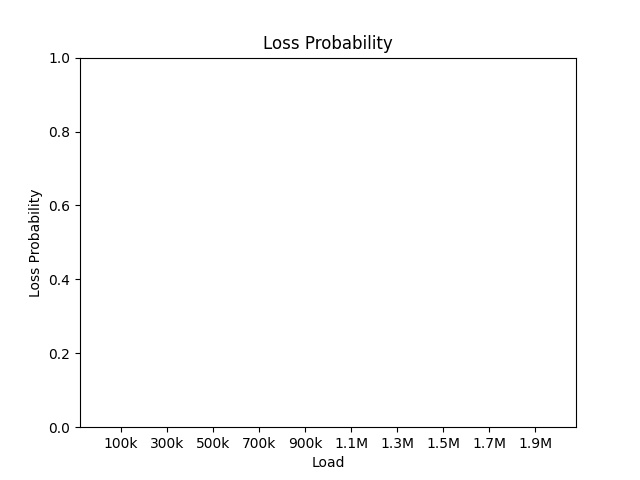
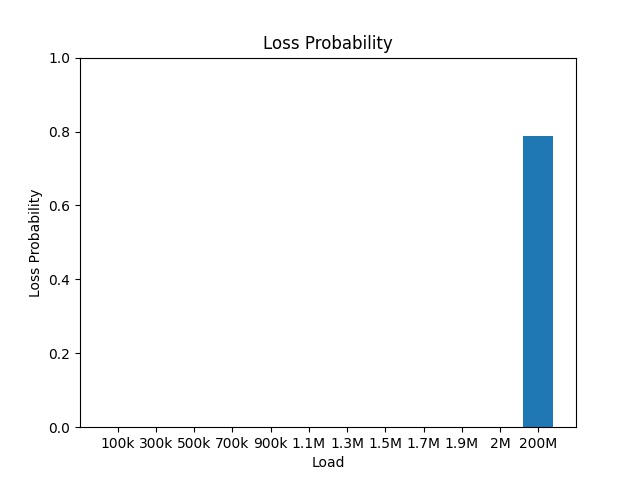
add new bar

Changed region(s): [[0.1562, 0.2812, 0.875, 0.9375]]

diff --git a/src/hw5/prob2.py b/src/hw5/prob2.py
@@ -262,8 +262,9 @@ if __name__ == "__main__":
 
 
     prob = []
-    load = ['100k', '300k', '500k', '700k', '900k', '1.1M', '1.3M', '1.5M', '1.7M', '1.9M']
-    for rate in range(100000, 2000000, 200000):
+    load = ['100k', '300k', '500k', '700k', '900k', '1.1M', '1.3M', '1.5M', '1.7M', '1.9M', '2M', '200M']
+    load_int = [100000, 300000, 500000, 700000, 900000, 1100000, 1300000, 1500000, 1700000, 1900000, 2000000, 200000000]
+    for rate in load_int:
         loss_data = 0
         total_data = 0
         for _ in range(1000):
@@ -302,7 +303,7 @@ if __name__ == "__main__":
     prob = []
     for ue in cent_bs.ue:
         ue.set_buffer(0)
-    for rate in range(100000, 2000000, 200000):
+    for rate in load_int:
         loss_data = 0
         total_data = 0
         for _ in range(1000):
